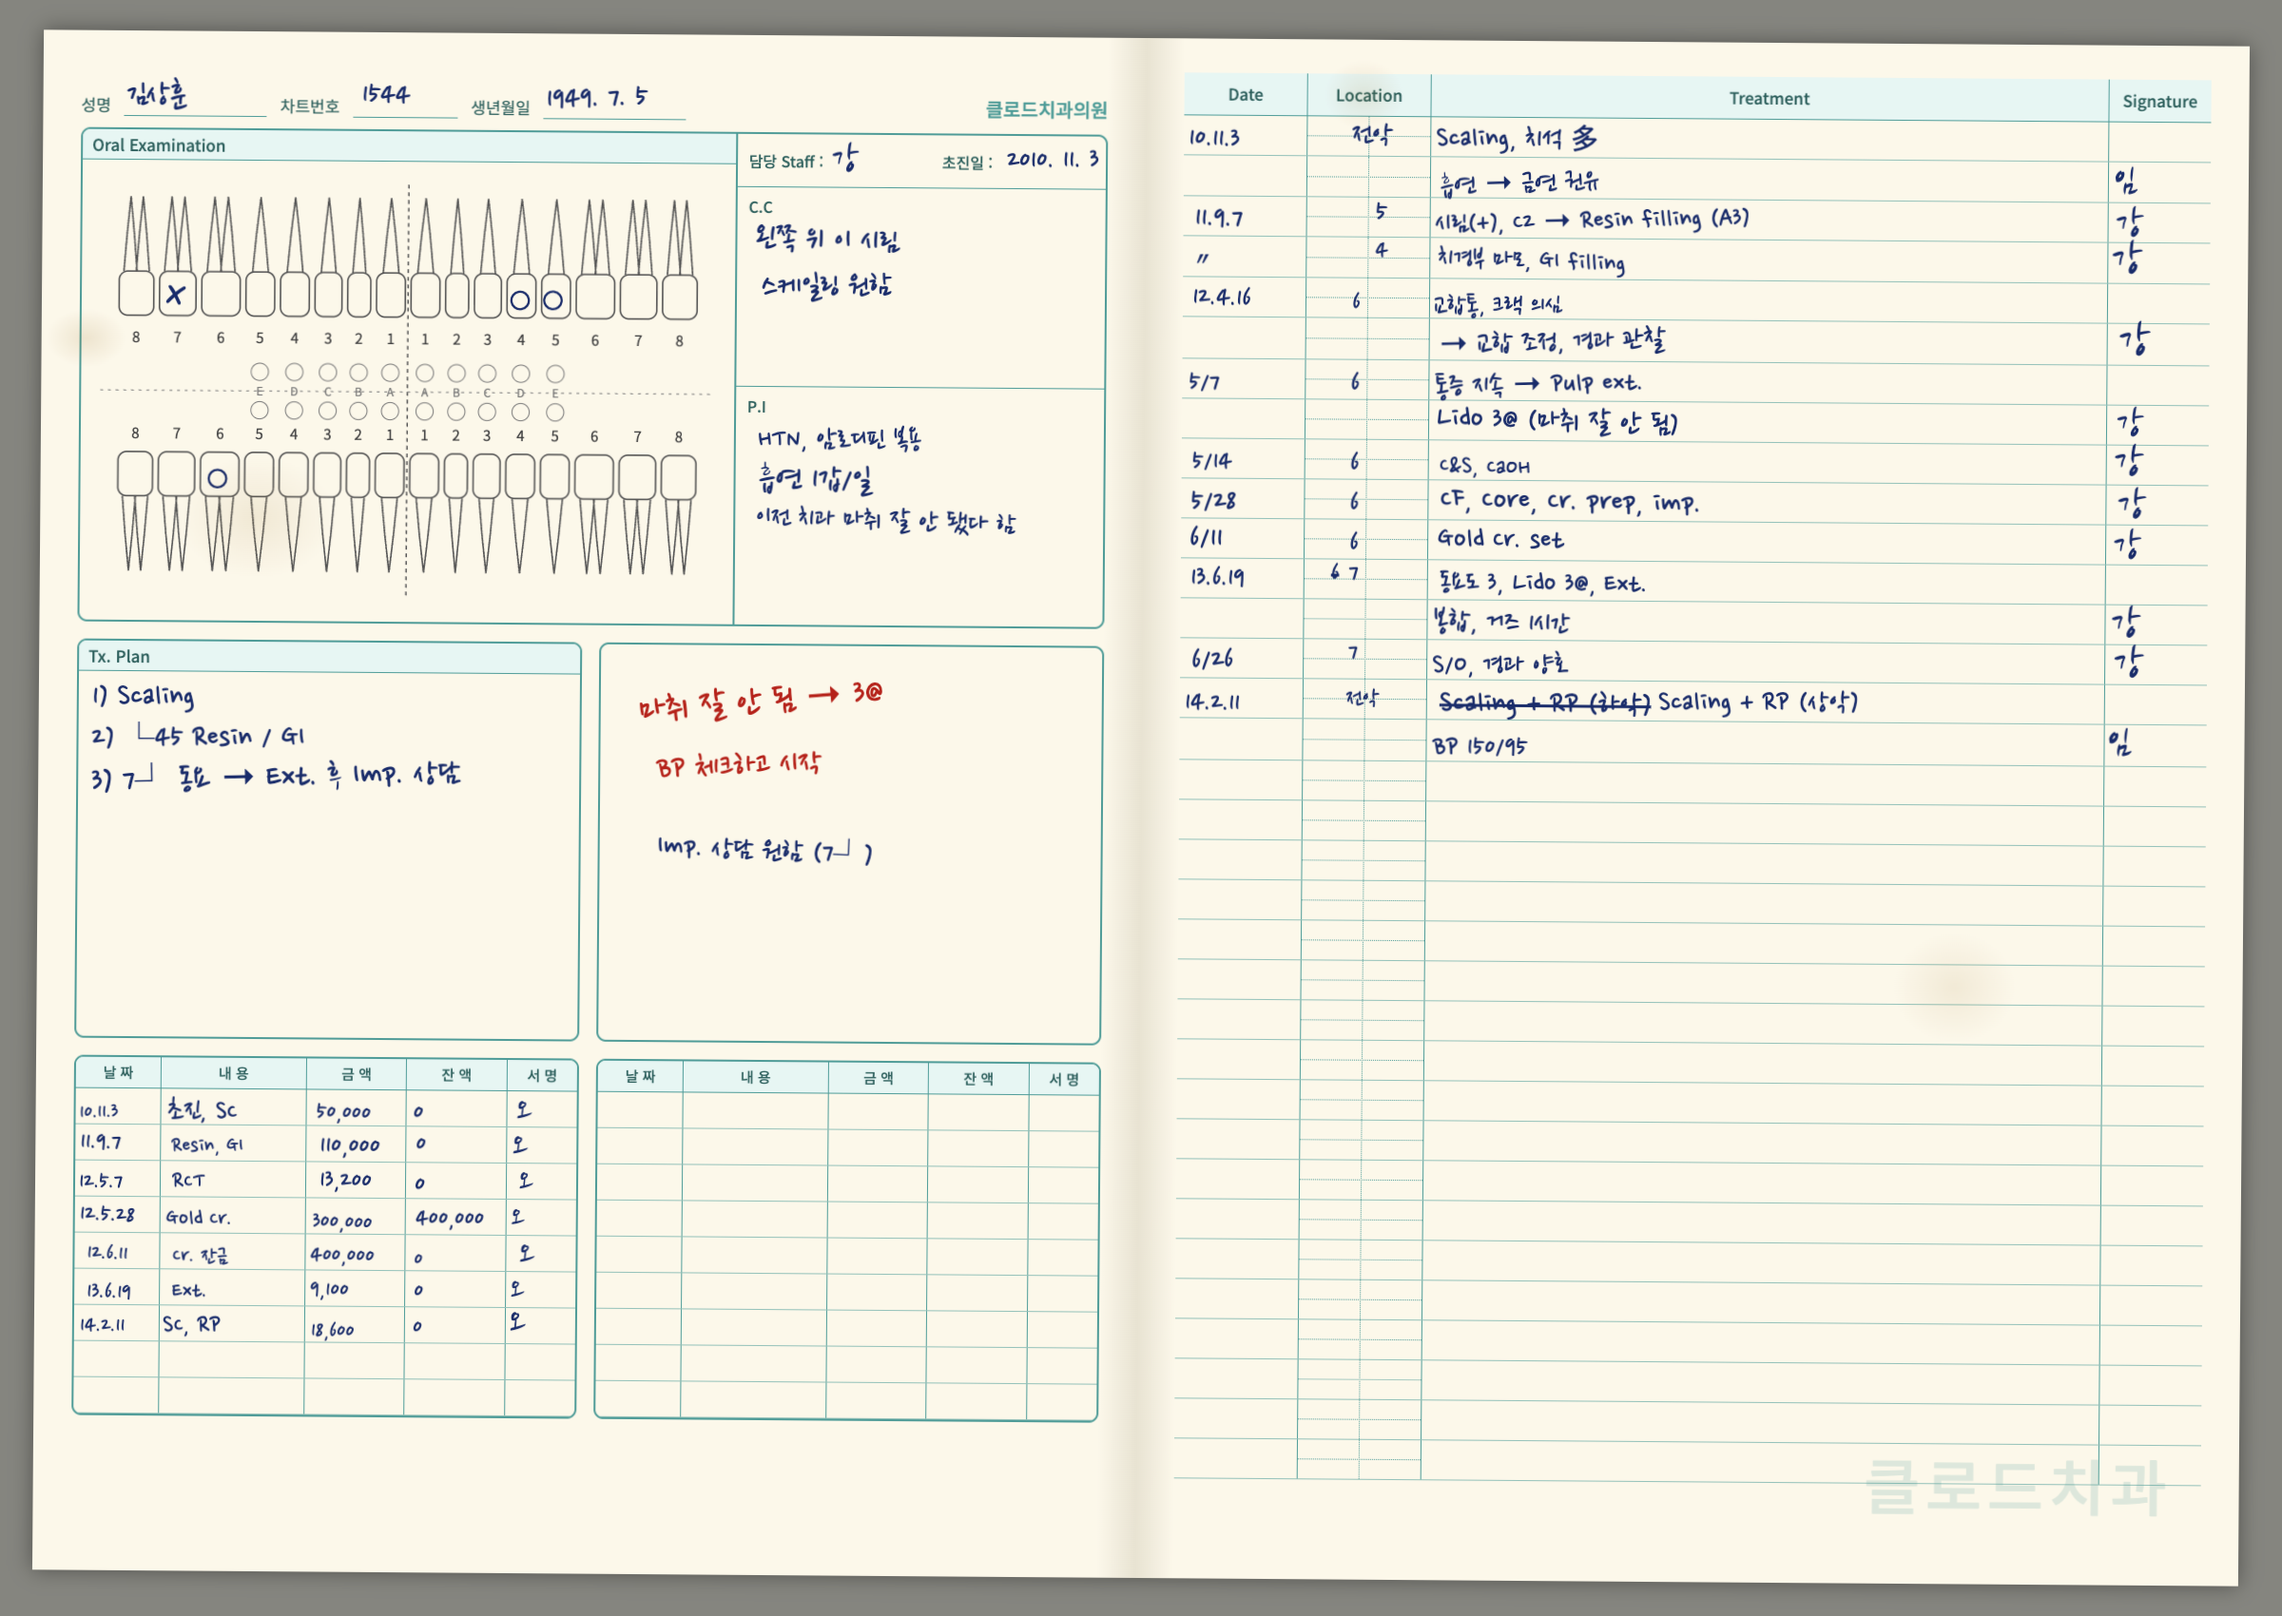
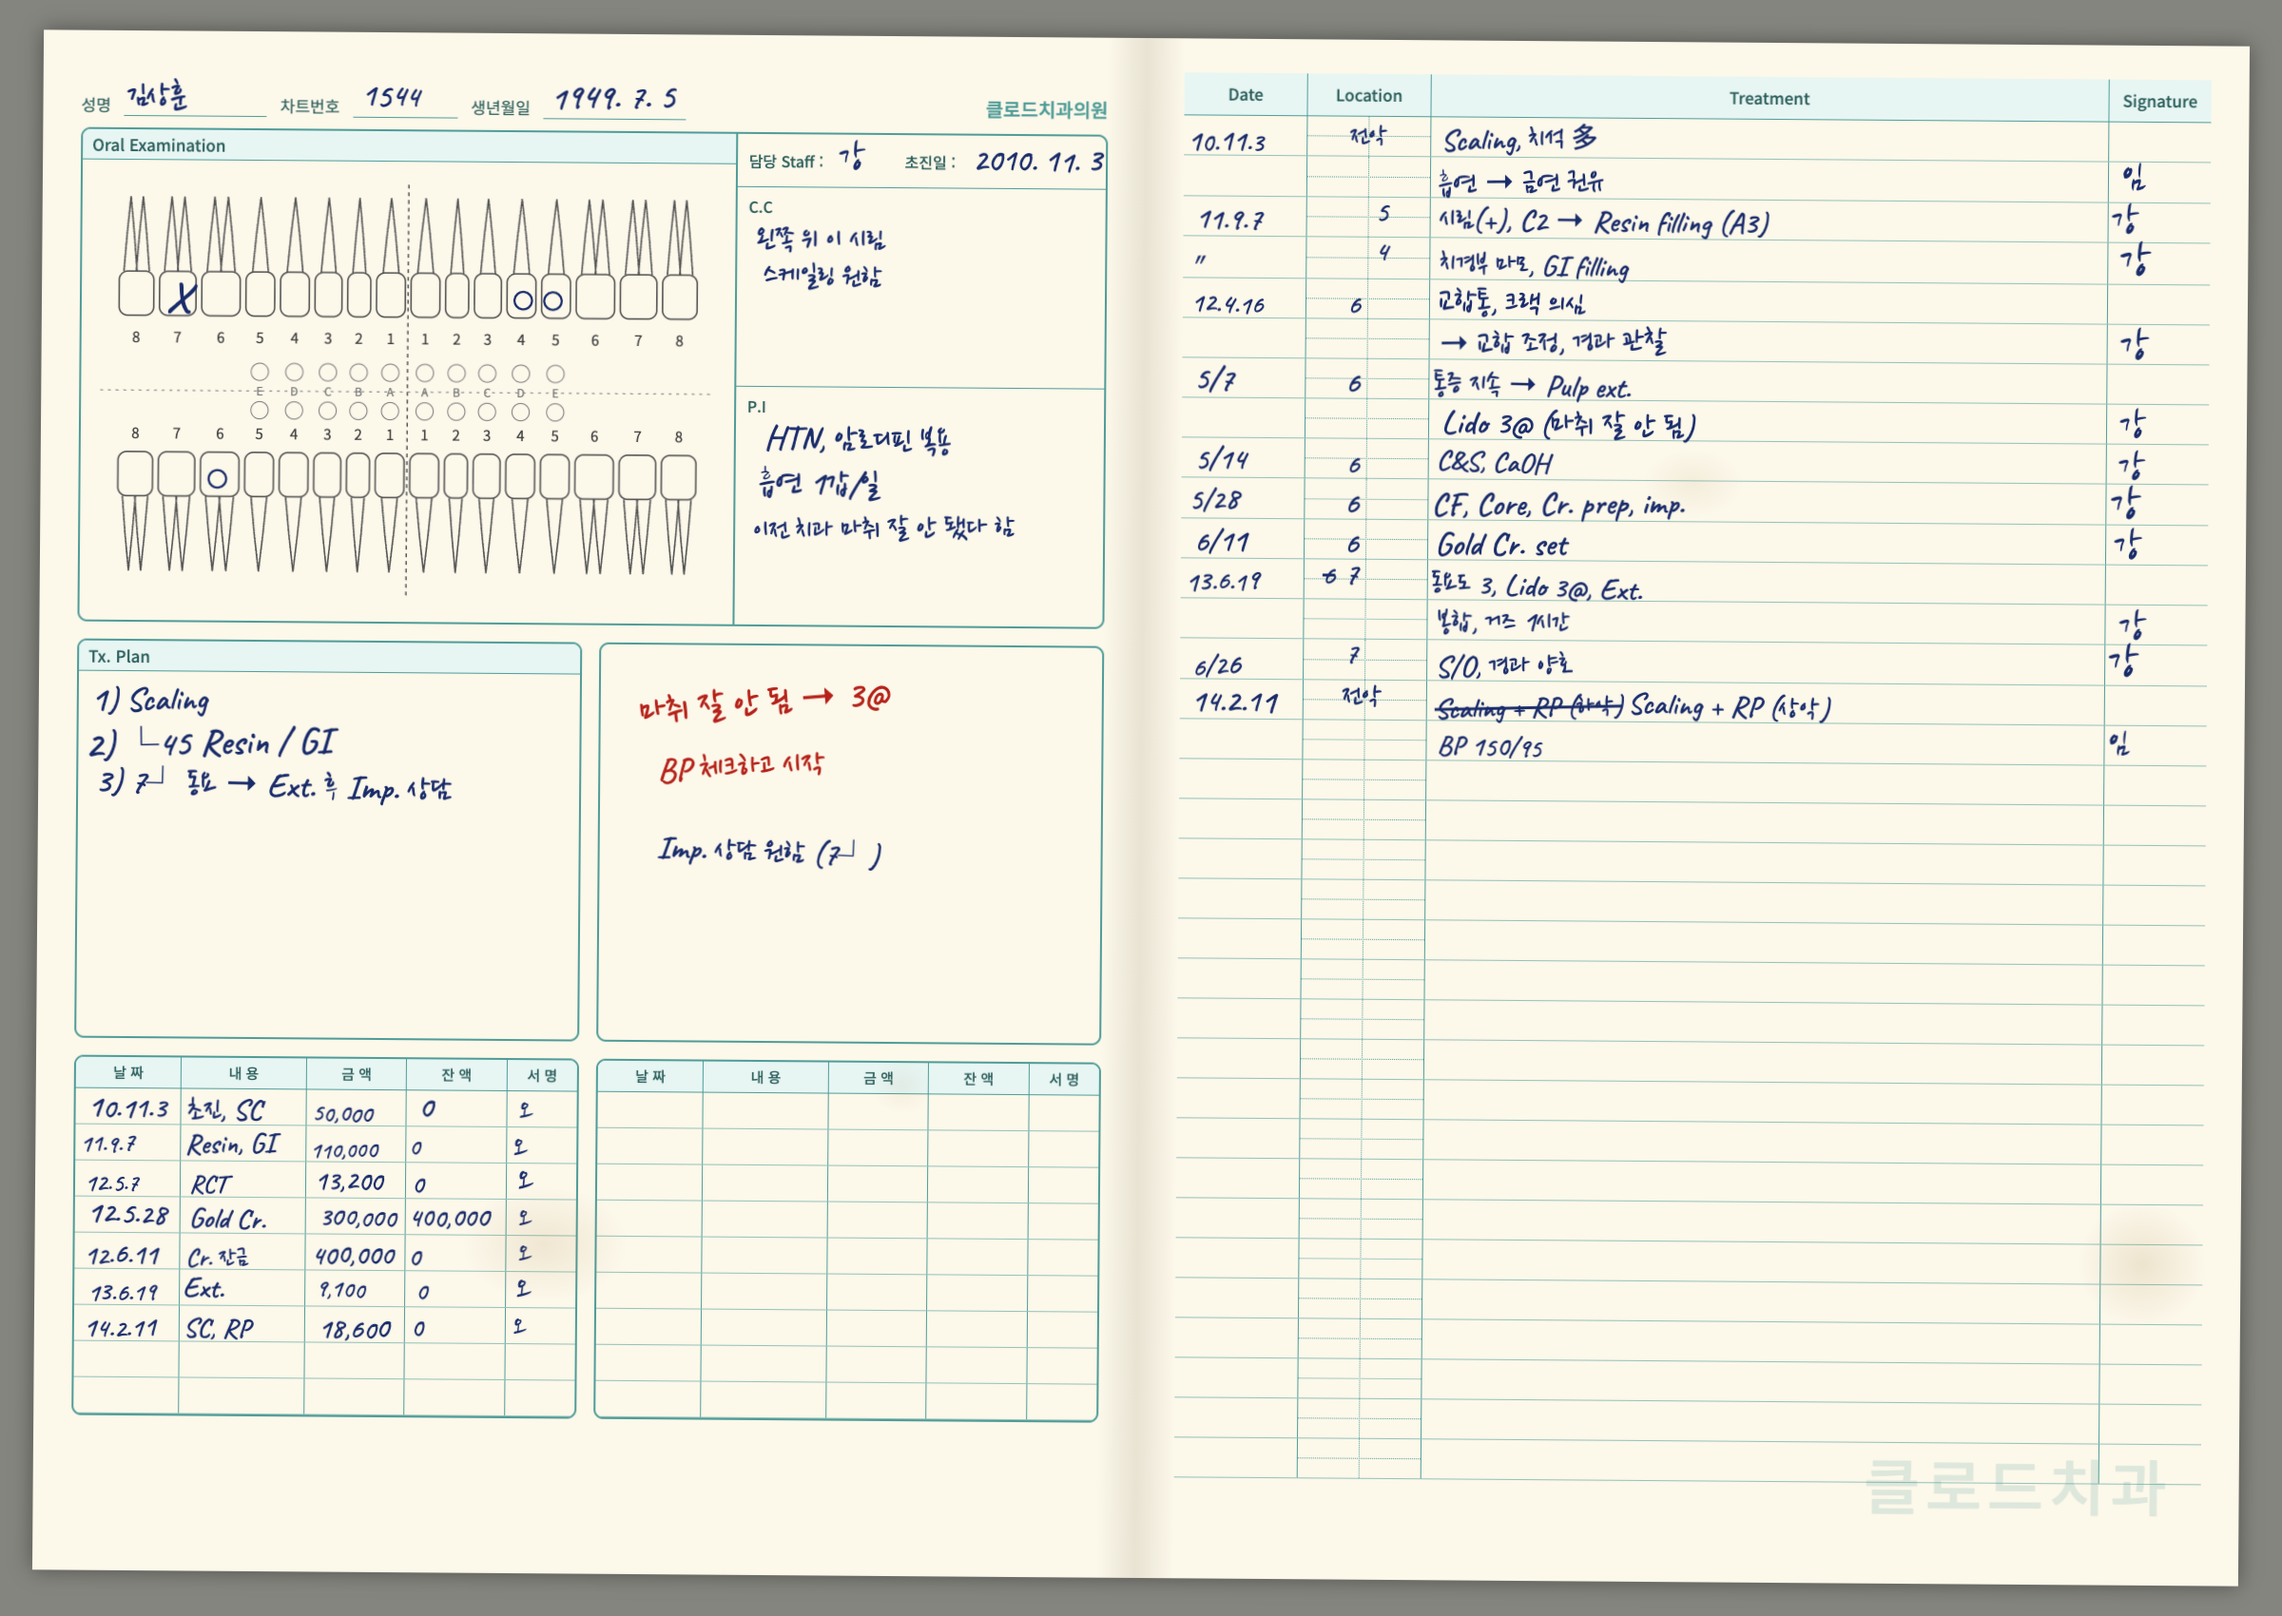
chore: 샘플 종이 차트 영문·숫자를 Caveat 손글씨로, 숫자는 한 자씩 흔들기
- 나눔펜의 막대 1을 OCR·정보 추출이 버려 날짜 앞자리 1이 사라졌다(C-00017 날짜 0/9) — 1에 꺾임이 있는 Caveat로
- 숫자는 한 자씩 크기·높이·기울기를 흔들어 인쇄체처럼 보이지 않게, 수납 장부 날짜 칸을 넓힘

Claude-Session: https://claude.ai/code/session_01G62cGye3wBjmxiJAoLWFtP

diff --git a/demo/paper_charts/template.html b/demo/paper_charts/template.html
@@ -2,7 +2,7 @@
 <html lang="ko">
 <head>
 <meta charset="utf-8">
-<link href="https://fonts.googleapis.com/css2?family=Nanum+Brush+Script&family=Nanum+Pen+Script&family=Noto+Sans+KR:wght@400;500&display=block" rel="stylesheet">
+<link href="https://fonts.googleapis.com/css2?family=Nanum+Brush+Script&family=Nanum+Pen+Script&family=Caveat:wght@500&family=Noto+Sans+KR:wght@400;500&display=block" rel="stylesheet">
 <style>
   * { box-sizing: border-box; margin: 0; padding: 0; }
   :root { --ink: #4f9a96; --fill: #e3f1ef; --pen: #1d2f6b; --red: #b3261e; }
@@ -21,9 +21,11 @@
   .label { background: var(--fill); color: #2e5f5c; font-size: 17px; padding: 3px 10px;
            border-bottom: 1.5px solid var(--ink); font-weight: 500; }
   .sub { font-size: 16px; color: #2e5f5c; font-weight: 500; }
-  .hw { font-family: "Nanum Pen Script", cursive; color: var(--pen); display: inline-block;
+  /* 영문·숫자는 Caveat(1에 꺾임 — 나눔펜의 막대 1은 OCR이 버린다), 한글은 나눔펜 */
+  .hw { font-family: "Caveat", "Nanum Pen Script", cursive; color: var(--pen); display: inline-block;
         white-space: nowrap; line-height: 1; }
   .hw.red { color: var(--red); }
+  .hw .d { display: inline-block; }
   .brush { font-family: "Nanum Brush Script", cursive; }
   .struck { text-decoration: line-through; text-decoration-thickness: 3px; margin-right: 10px; }
   .note { position: absolute; z-index: 2; }

diff --git a/demo/paper_charts/make.py b/demo/paper_charts/make.py
@@ -22,12 +22,24 @@ TOOTH_W = {8: 40, 7: 42, 6: 44, 5: 34, 4: 34, 3: 32, 2: 28, 1: 34}  # 치아 그
 MID = 340  # 치아 그림 가운데 선
 
 
+def digits(rng: random.Random, text: str) -> str:
+    """숫자는 한 자씩 크기·높이·기울기를 살짝 흔든다 — 같은 숫자가 똑같은 모양이면 인쇄체처럼 보인다"""
+    return "".join(
+        f'<span class="d" style="font-size:{rng.uniform(0.94, 1.06):.2f}em;'
+        f"transform:translateY({rng.uniform(-1.2, 1.2):.1f}px)"
+        f' rotate({rng.uniform(-3.5, 3.5):.1f}deg)">{ch}</span>'
+        if ch.isdigit()
+        else html.escape(ch)
+        for ch in text
+    )
+
+
 def hw(rng: random.Random, text: str, size: int = 34, cls: str = "") -> str:
     """손글씨 한 덩어리 — 크기·기울기·위치를 조금씩 흔든다"""
     return (
         f'<span class="hw {cls}" style="font-size:{size + rng.randint(-3, 3)}px;'
         f"transform:translate({rng.randint(-3, 8)}px,{rng.randint(-3, 2)}px)"
-        f' rotate({rng.uniform(-2.0, 2.0):.1f}deg)">{html.escape(text)}</span>'
+        f' rotate({rng.uniform(-2.0, 2.0):.1f}deg)">{digits(rng, text)}</span>'
     )
 
 
@@ -100,7 +112,7 @@ def teeth(rng: random.Random, marks: list[dict]) -> str:
         '<svg viewBox="0 0 680 470" width="100%" style="margin-top:4px">'
         "<style>.num{font:15px 'Noto Sans KR';fill:#444;text-anchor:middle}"
         ".pri{font:12px 'Noto Sans KR';fill:#777;text-anchor:middle}"
-        ".mark{font:46px 'Nanum Pen Script';fill:#1d2f6b;text-anchor:middle}</style>"
+        ".mark{font:46px 'Caveat','Nanum Pen Script';fill:#1d2f6b;text-anchor:middle}</style>"
         f'<line x1="{MID}" y1="20" x2="{MID}" y2="450" stroke="#555" stroke-width="1.4"'
         ' stroke-dasharray="4 4"/>'
         '<line x1="20" y1="236" x2="660" y2="236" stroke="#777" stroke-dasharray="3 5"/>'
@@ -158,7 +170,7 @@ def progress(rng: random.Random, visits: list[dict]) -> str:
 def ledgers(rng: random.Random, payments: list[dict]) -> str:
     """수납 장부 두 칸 — 날짜·내용·금액·잔액·서명, 앞 칸부터 채운다"""
     head = (
-        '<tr><th style="width:17%">날 짜</th><th style="width:29%">내 용</th>'
+        '<tr><th style="width:21%">날 짜</th><th style="width:25%">내 용</th>'
         '<th style="width:20%">금 액</th><th style="width:20%">잔 액</th><th>서 명</th></tr>'
     )
     out = []
